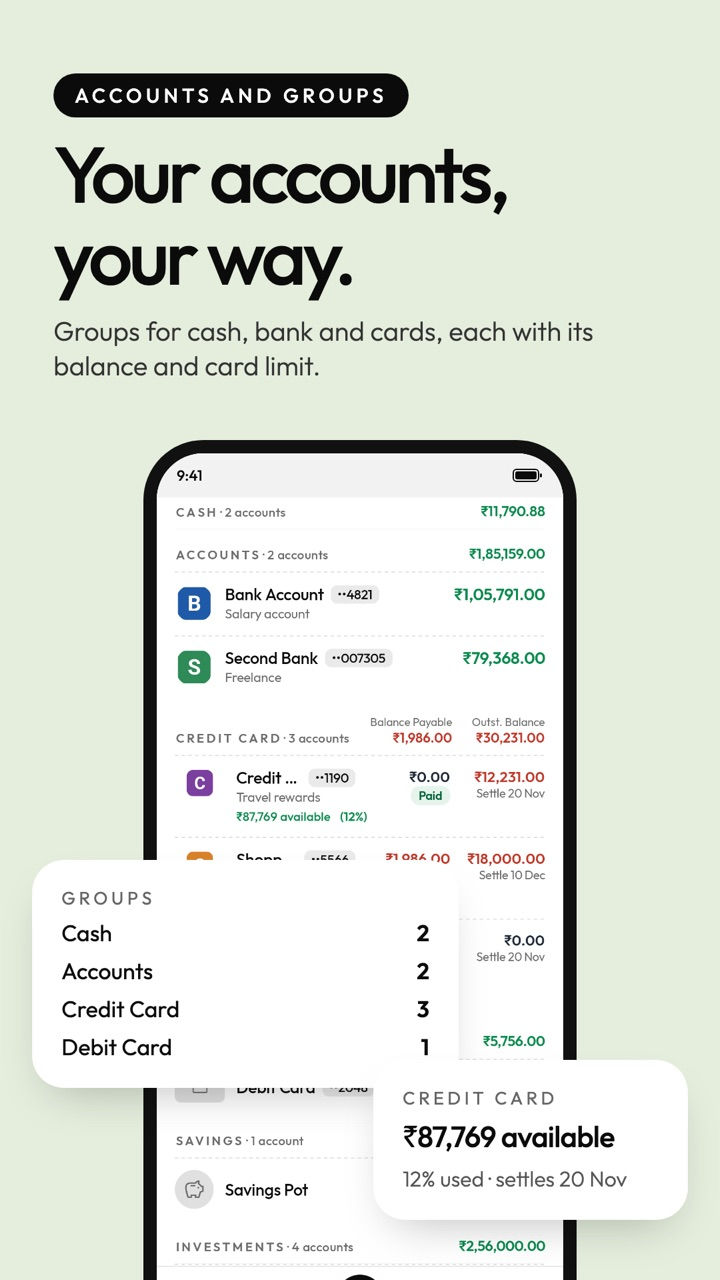
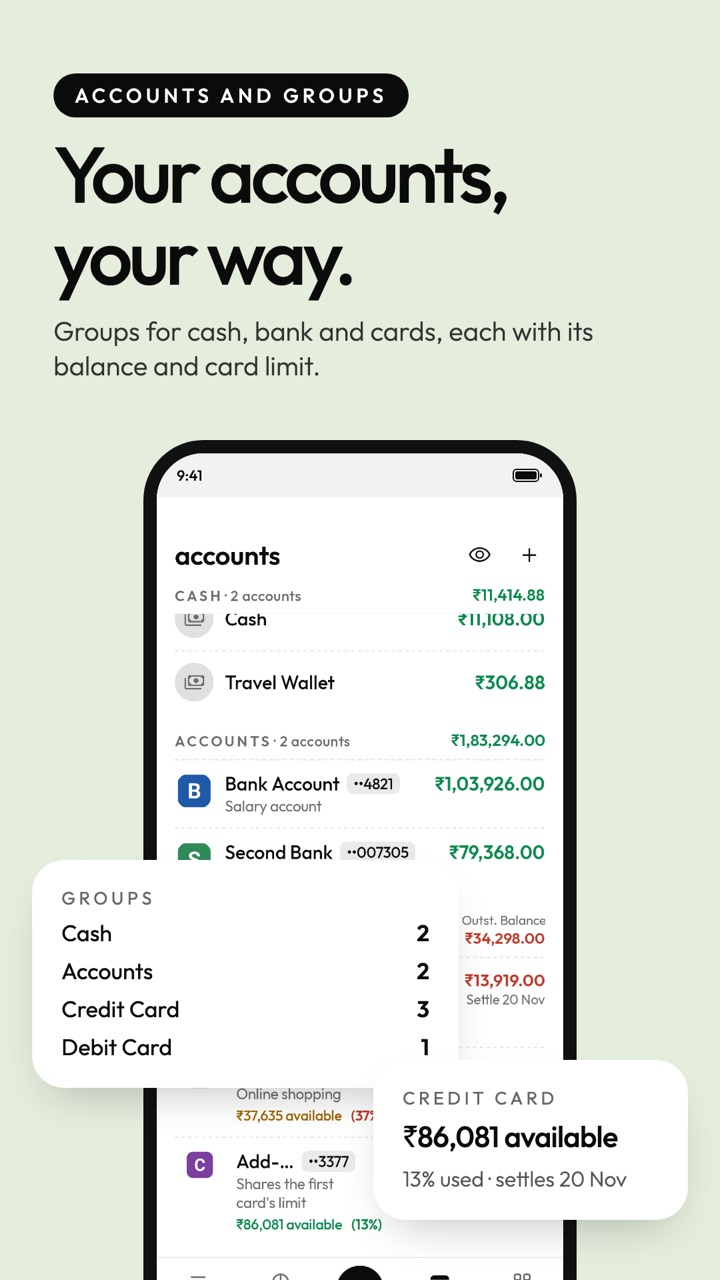
Gallery: Share text feature image added, Accounts and groups image retaken (title bar now pins above the group header)

diff --git a/index.html b/index.html
@@ -28,7 +28,7 @@
 <link rel="preload" href="fonts/outfit-500.woff2" as="font" type="font/woff2" crossorigin>
 <link rel="preload" href="screens/01-transactions-daily.webp" as="image" type="image/webp" fetchpriority="high">
 <script type="application/ld+json">
-{"@context":"https://schema.org","@type":"SoftwareApplication","name":"Money SpendOptic","applicationCategory":"FinanceApplication","operatingSystem":"Android","description":"A private money manager for Android: income, expenses and transfers, budgets, repeats and installments, search, Google Drive backup and a computer view.","inLanguage":["en","hi","mr"],"url":"https://www.moneyspendoptic.com/","image":"https://www.moneyspendoptic.com/logo.png","downloadUrl":"https://play.google.com/store/apps/details?id=com.moneyspendoptic","installUrl":"https://play.google.com/store/apps/details?id=com.moneyspendoptic","screenshot":["https://www.moneyspendoptic.com/features/01-daily-transactions.jpg","https://www.moneyspendoptic.com/features/02-insights.jpg","https://www.moneyspendoptic.com/features/03-smart-notes.jpg","https://www.moneyspendoptic.com/features/04-add-several.jpg","https://www.moneyspendoptic.com/features/04b-grouped-entries.jpg","https://www.moneyspendoptic.com/features/05-tags.jpg","https://www.moneyspendoptic.com/features/06-repeat.jpg","https://www.moneyspendoptic.com/features/07-installments.jpg","https://www.moneyspendoptic.com/features/08-budgets.jpg","https://www.moneyspendoptic.com/features/09-net-worth.jpg","https://www.moneyspendoptic.com/features/10-card-statements.jpg","https://www.moneyspendoptic.com/features/11-accounts-and-groups.jpg","https://www.moneyspendoptic.com/features/24-account-history.jpg","https://www.moneyspendoptic.com/features/12-categories.jpg","https://www.moneyspendoptic.com/features/23-category-icons.jpg","https://www.moneyspendoptic.com/features/13-notes.jpg","https://www.moneyspendoptic.com/features/14-search-and-filters.jpg","https://www.moneyspendoptic.com/features/15-backup-and-privacy.jpg","https://www.moneyspendoptic.com/features/16-reminders.jpg","https://www.moneyspendoptic.com/features/17-assets-liabilities.jpg","https://www.moneyspendoptic.com/features/18-loans.jpg","https://www.moneyspendoptic.com/features/19-card-year.jpg","https://www.moneyspendoptic.com/features/20-investments.jpg","https://www.moneyspendoptic.com/features/21-excel-import.jpg","https://www.moneyspendoptic.com/features/22-excel-export.jpg","https://www.moneyspendoptic.com/features/25-photos.jpg","https://www.moneyspendoptic.com/features/26-account-docs.jpg","https://www.moneyspendoptic.com/features/27-bulk-edit.jpg","https://www.moneyspendoptic.com/features/28-sms-tracking.jpg"],"offers":{"@type":"Offer","price":"0","priceCurrency":"INR"}}
+{"@context":"https://schema.org","@type":"SoftwareApplication","name":"Money SpendOptic","applicationCategory":"FinanceApplication","operatingSystem":"Android","description":"A private money manager for Android: income, expenses and transfers, budgets, repeats and installments, search, Google Drive backup and a computer view.","inLanguage":["en","hi","mr"],"url":"https://www.moneyspendoptic.com/","image":"https://www.moneyspendoptic.com/logo.png","downloadUrl":"https://play.google.com/store/apps/details?id=com.moneyspendoptic","installUrl":"https://play.google.com/store/apps/details?id=com.moneyspendoptic","screenshot":["https://www.moneyspendoptic.com/features/01-daily-transactions.jpg","https://www.moneyspendoptic.com/features/02-insights.jpg","https://www.moneyspendoptic.com/features/03-smart-notes.jpg","https://www.moneyspendoptic.com/features/04-add-several.jpg","https://www.moneyspendoptic.com/features/04b-grouped-entries.jpg","https://www.moneyspendoptic.com/features/05-tags.jpg","https://www.moneyspendoptic.com/features/06-repeat.jpg","https://www.moneyspendoptic.com/features/07-installments.jpg","https://www.moneyspendoptic.com/features/08-budgets.jpg","https://www.moneyspendoptic.com/features/09-net-worth.jpg","https://www.moneyspendoptic.com/features/10-card-statements.jpg","https://www.moneyspendoptic.com/features/11-accounts-and-groups.jpg","https://www.moneyspendoptic.com/features/24-account-history.jpg","https://www.moneyspendoptic.com/features/12-categories.jpg","https://www.moneyspendoptic.com/features/23-category-icons.jpg","https://www.moneyspendoptic.com/features/13-notes.jpg","https://www.moneyspendoptic.com/features/14-search-and-filters.jpg","https://www.moneyspendoptic.com/features/15-backup-and-privacy.jpg","https://www.moneyspendoptic.com/features/16-reminders.jpg","https://www.moneyspendoptic.com/features/17-assets-liabilities.jpg","https://www.moneyspendoptic.com/features/18-loans.jpg","https://www.moneyspendoptic.com/features/19-card-year.jpg","https://www.moneyspendoptic.com/features/20-investments.jpg","https://www.moneyspendoptic.com/features/21-excel-import.jpg","https://www.moneyspendoptic.com/features/22-excel-export.jpg","https://www.moneyspendoptic.com/features/25-photos.jpg","https://www.moneyspendoptic.com/features/26-account-docs.jpg","https://www.moneyspendoptic.com/features/27-bulk-edit.jpg","https://www.moneyspendoptic.com/features/28-sms-tracking.jpg","https://www.moneyspendoptic.com/features/29-share-text.jpg"],"offers":{"@type":"Offer","price":"0","priceCurrency":"INR"}}
 </script>
 <script type="application/ld+json">
 {"@context":"https://schema.org","@graph":[{"@type":"Organization","@id":"https://www.moneyspendoptic.com/#org","name":"Money SpendOptic","url":"https://www.moneyspendoptic.com/","logo":"https://www.moneyspendoptic.com/logo.png","email":"moneyspendoptic@gmail.com"},{"@type":"WebSite","name":"Money SpendOptic","url":"https://www.moneyspendoptic.com/","publisher":{"@id":"https://www.moneyspendoptic.com/#org"}}]}
@@ -389,6 +389,7 @@ footer .data{max-width:1240px;margin:0 auto 18px;font-size:13px;line-height:1.6;
 <li><img src="features/26-account-docs.jpg" width="300" height="533" alt="Account docs: Keep PDFs, photos and notes on the account they belong to. They are part of your backup." loading="lazy" decoding="async"><h3>Account docs</h3><p>Keep PDFs, photos and notes on the account they belong to. They are part of your backup.</p></li>
 <li><img src="features/27-bulk-edit.jpg" width="300" height="533" alt="Bulk edit: Select entries in Search, then change their category, account, date, note or tags together." loading="lazy" decoding="async"><h3>Bulk edit</h3><p>Select entries in Search, then change their category, account, date, note or tags together.</p></li>
 <li><img src="features/28-sms-tracking.jpg" width="300" height="533" alt="SMS tracking: alerts from banks, cards and wallets become entries, or wait for your OK. Starts only after you agree." loading="lazy" decoding="async"><h3>SMS tracking</h3><p>Alerts from banks, cards and wallets become entries, or wait for your OK. It starts only after you agree; the message text is not kept.</p></li>
+<li><img src="features/29-share-text.jpg" width="300" height="533" alt="Share text: share or paste a bank alert, a list or plain words, review the entries found, then add them all." loading="lazy" decoding="async"><h3>Share text</h3><p>Share or paste a bank alert, a list or plain words from any app. Review the entries found, pick an account and add them in one go; the text is not kept.</p></li>
 <li><img src="features/15-backup-and-privacy.jpg" width="300" height="533" alt="Backup and privacy: Backup file, your own Google Drive and Excel import. Data stays on your phone." loading="lazy" decoding="async"><h3>Backup and privacy</h3><p>Backup file, your own Google Drive and Excel import. Data stays on your phone.</p></li>
 </ul>
 <div class="ctrl gal-ctrl">
